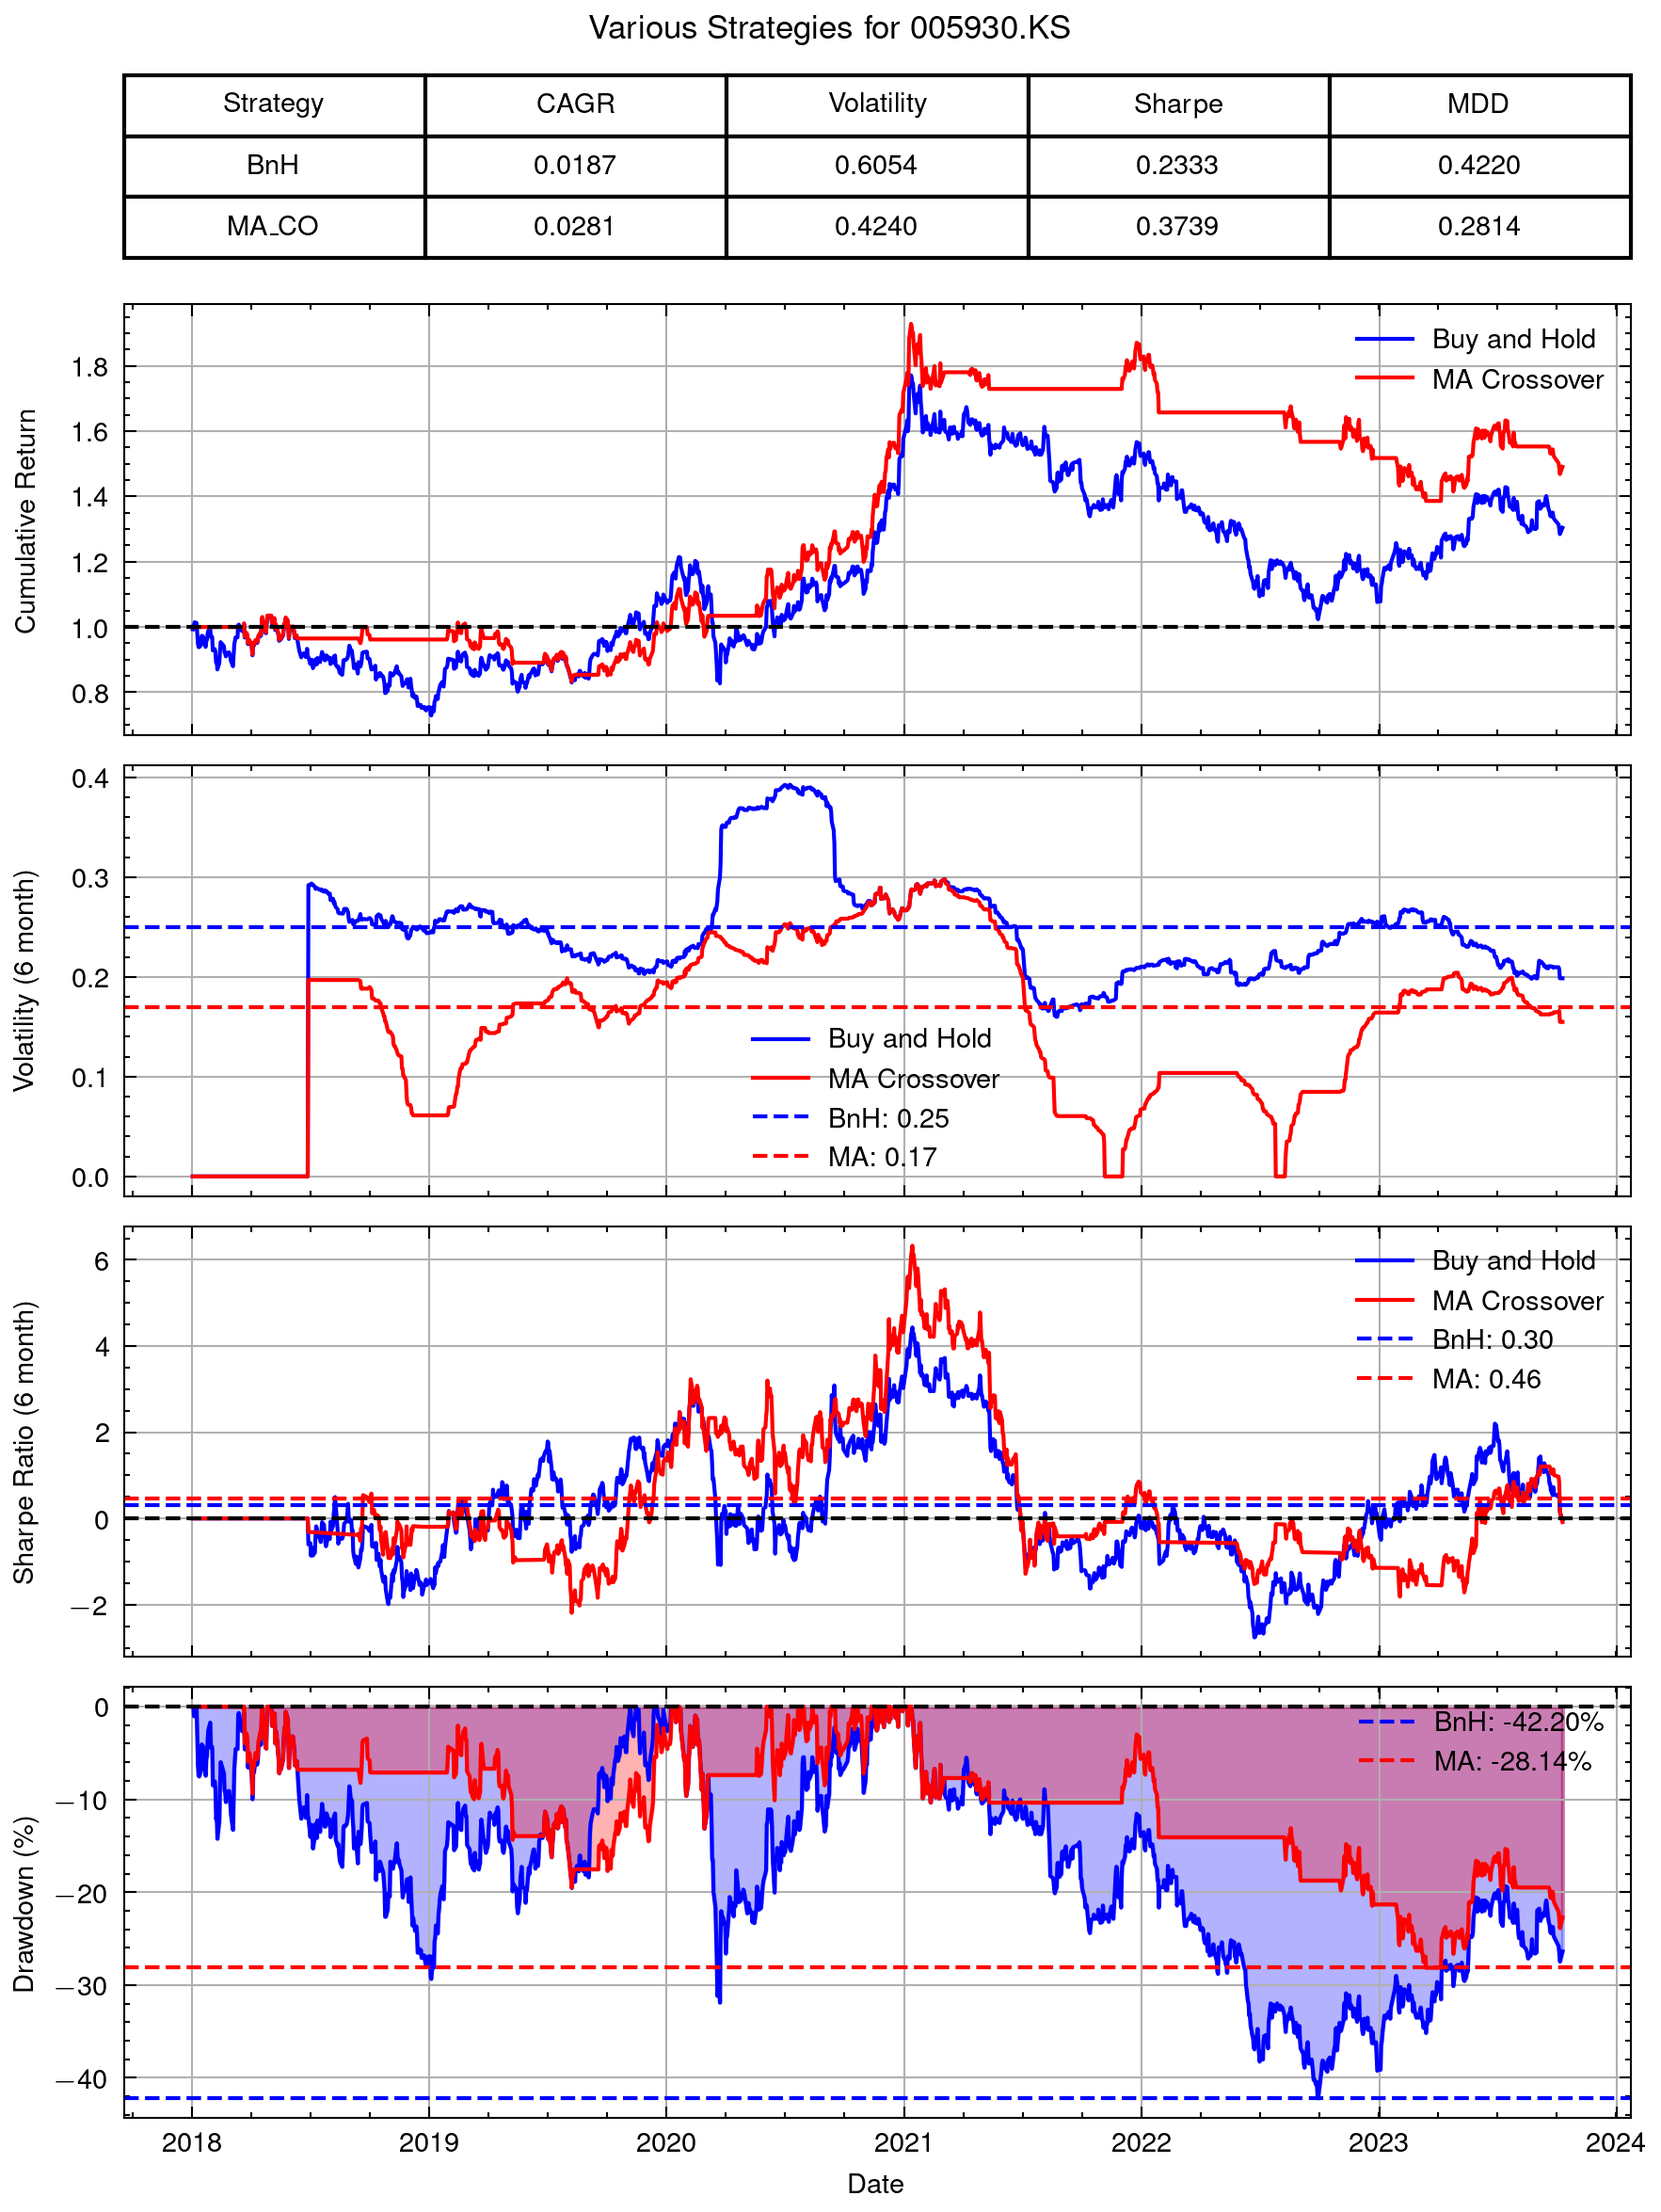
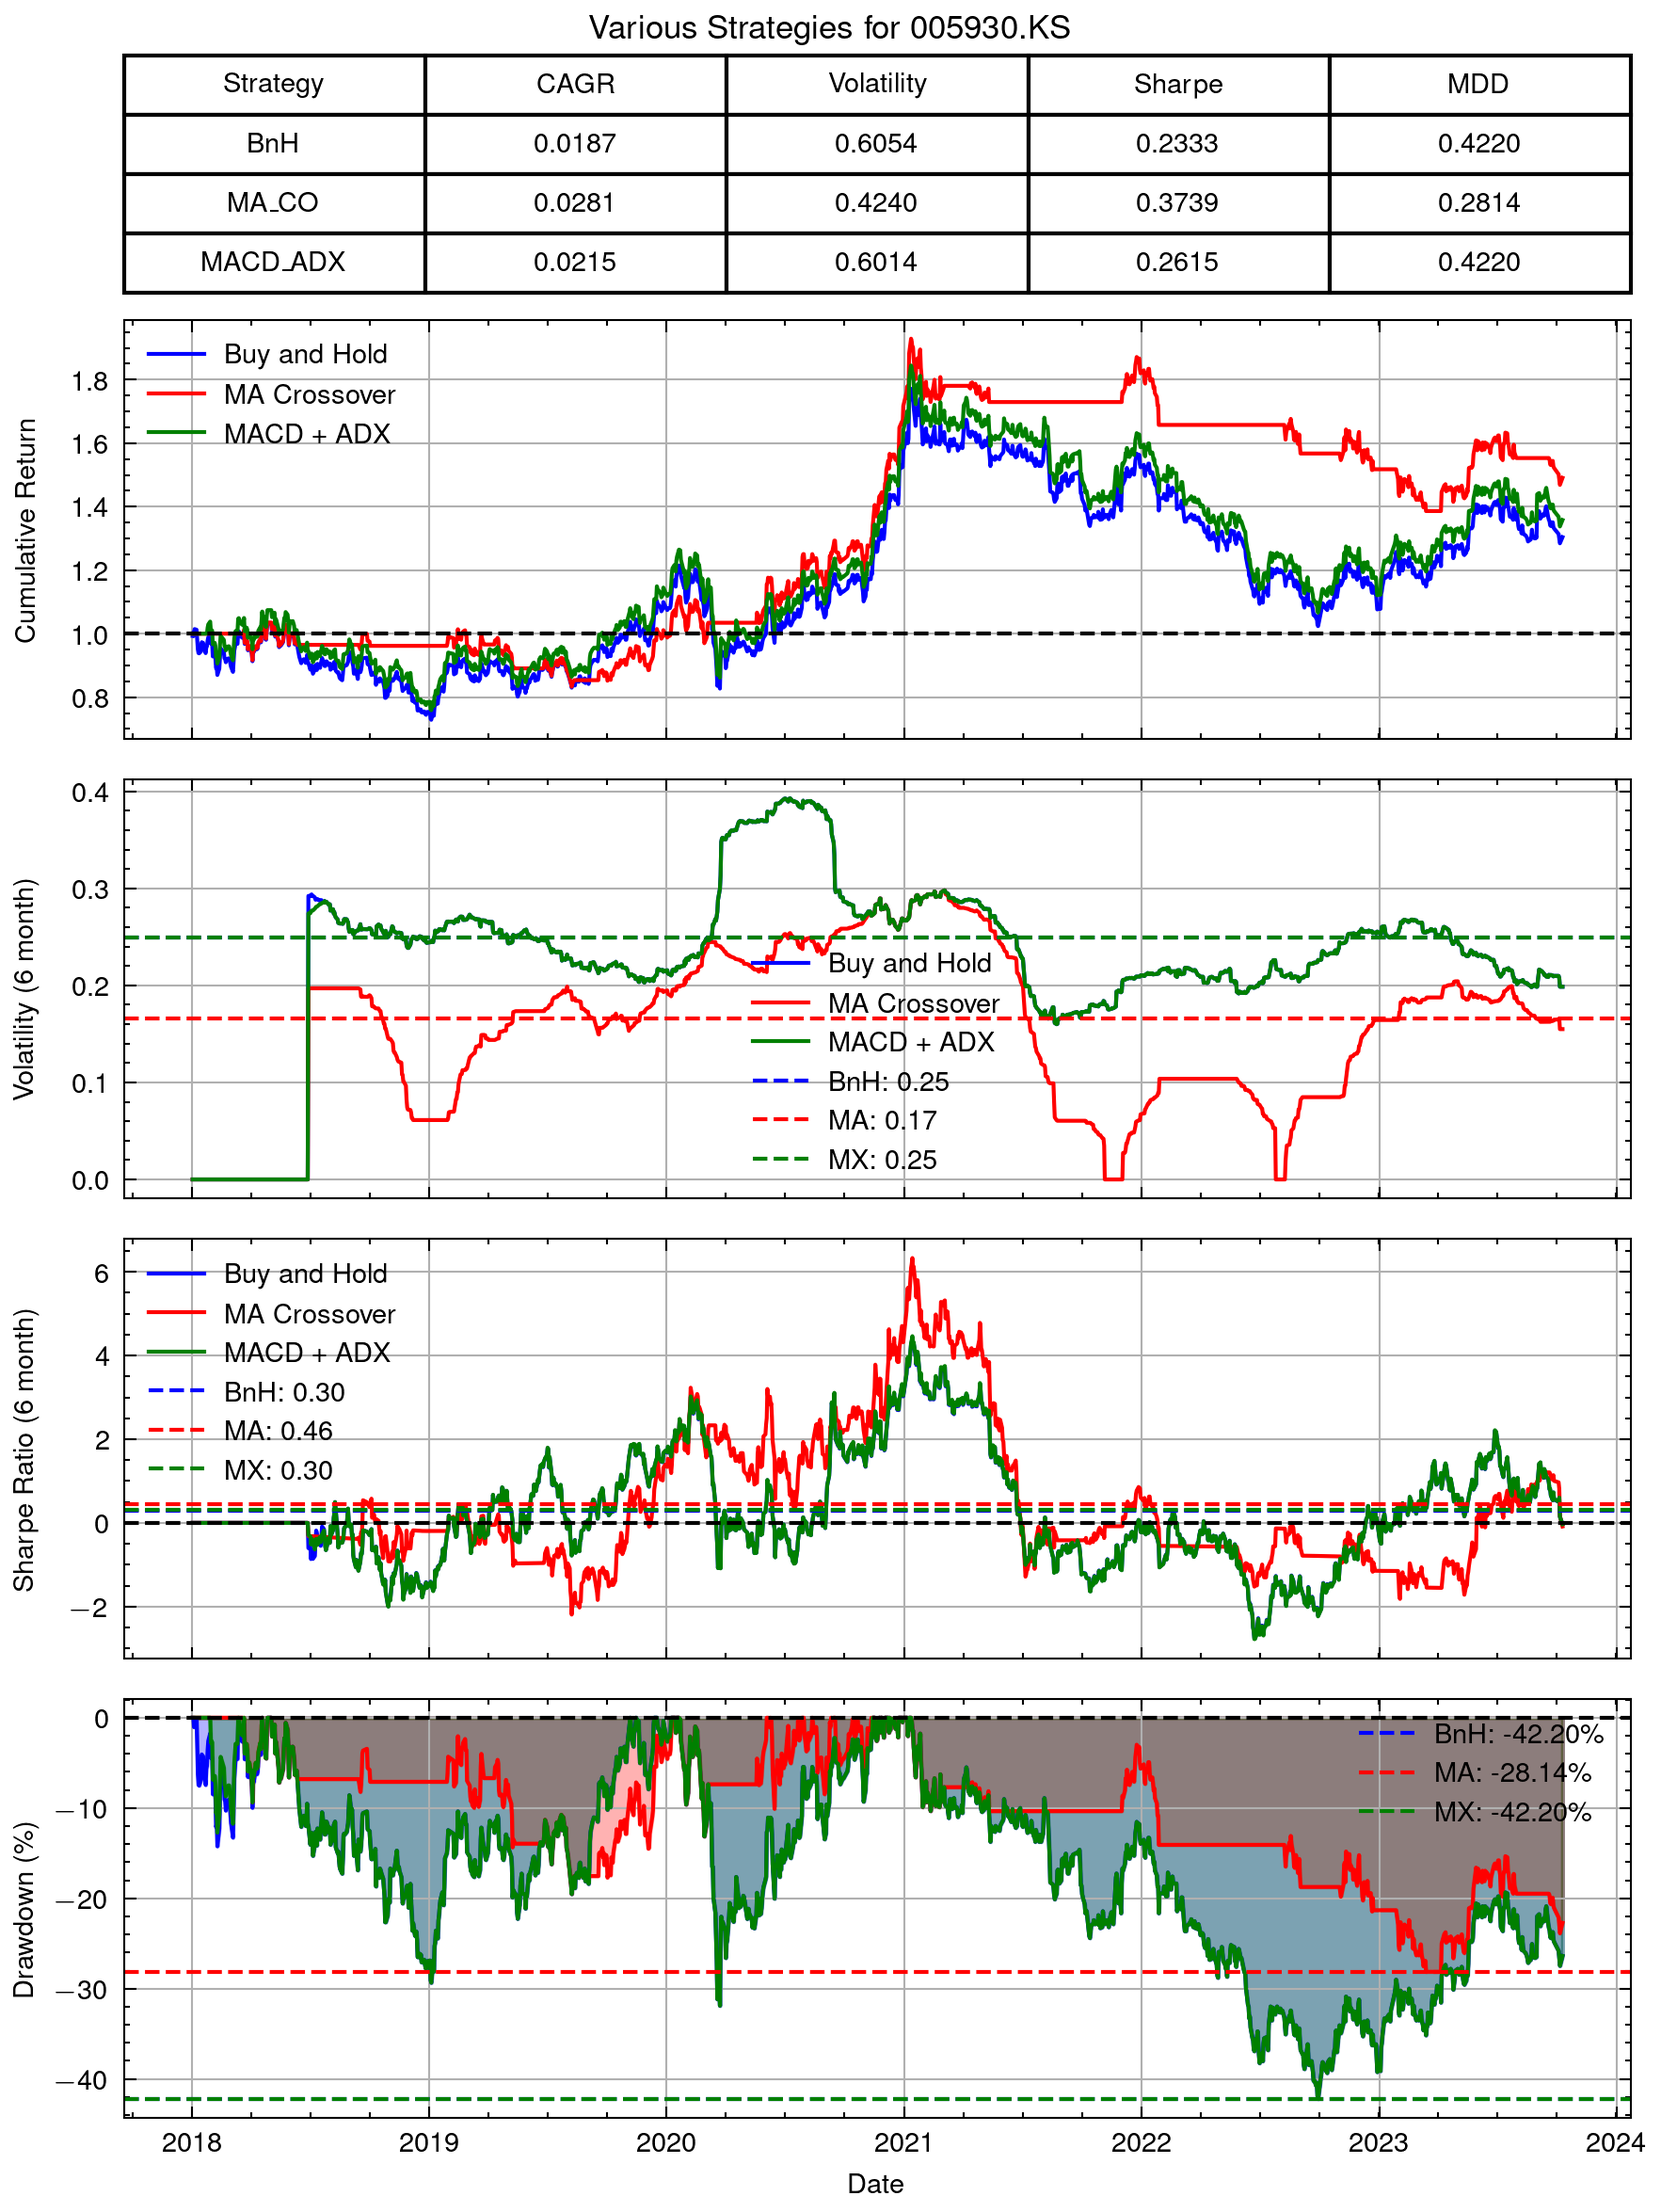
Add KO

diff --git a/script/strategy_plot.py b/script/strategy_plot.py
@@ -28,6 +28,11 @@ ma_co_vol = df['ma_co_vol']
 ma_co_sr = df['ma_co_sr']
 ma_co_dd = df['ma_co_dd']
 
+macd_adx_cr = df['macd_adx_cr']
+macd_adx_vol = df['macd_adx_vol']
+macd_adx_sr = df['macd_adx_sr']
+macd_adx_dd = df['macd_adx_dd']
+
 # Plot
 with plt.style.context(["science", "nature"]):
     fig, axs = plt.subplots(5, 1, figsize=(6, 8), sharex=True, gridspec_kw={'height_ratios': [1,2,2,2,2]})
@@ -42,31 +47,34 @@ with plt.style.context(["science", "nature"]):
 
     axs[1].plot(x, bnh_cr, color='b', label='Buy and Hold')
     axs[1].plot(x, ma_co_cr, color='r', label='MA Crossover')
+    axs[1].plot(x, macd_adx_cr, color='g', label='MACD + ADX')
     axs[1].axhline(y=1, color='k', linestyle='--')
     axs[1].set_ylabel('Cumulative Return')
     axs[1].grid(True)
     axs[1].legend()
 
-    bnh_vol_nonzero = bnh_vol[bnh_vol != 0]
-    vol_mean = np.mean(bnh_vol_nonzero)
-    ma_co_vol_nonzero = ma_co_vol[ma_co_vol != 0]
-    ma_co_vol_mean = np.mean(ma_co_vol_nonzero)
+    vol_mean = np.mean(bnh_vol[120:])
+    ma_co_vol_mean = np.mean(ma_co_vol[120:])
+    macd_adx_vol_mean = np.mean(macd_adx_vol[120:])
     axs[2].plot(x, bnh_vol, color='b', label='Buy and Hold')
     axs[2].plot(x, ma_co_vol, color='r', label='MA Crossover')
+    axs[2].plot(x, macd_adx_vol, color='g', label='MACD + ADX')
     axs[2].axhline(y=vol_mean, color='b', linestyle='--', label=f'BnH: {vol_mean:.2f}')
     axs[2].axhline(y=ma_co_vol_mean, color='r', linestyle='--', label=f'MA: {ma_co_vol_mean:.2f}')
+    axs[2].axhline(y=macd_adx_vol_mean, color='g', linestyle='--', label=f'MX: {macd_adx_vol_mean:.2f}')
     axs[2].set_ylabel('Volatility (6 month)')
     axs[2].grid(True)
     axs[2].legend()
 
-    bnh_sr_nonzero = bnh_sr[bnh_sr != 0]
-    sr_mean = np.mean(bnh_sr_nonzero)
-    ma_co_sr_nonzero = ma_co_sr[ma_co_sr != 0]
-    ma_co_sr_mean = np.mean(ma_co_sr_nonzero)
+    sr_mean = np.mean(bnh_sr[120:])
+    ma_co_sr_mean = np.mean(ma_co_sr[120:])
+    macd_adx_sr_mean = np.mean(macd_adx_sr[120:])
     axs[3].plot(x, bnh_sr, color='b', label='Buy and Hold')
     axs[3].plot(x, ma_co_sr, color='r', label='MA Crossover')
+    axs[3].plot(x, macd_adx_sr, color='g', label='MACD + ADX')
     axs[3].axhline(y=sr_mean, color='b', linestyle='--', label=f'BnH: {sr_mean:.2f}')
     axs[3].axhline(y=ma_co_sr_mean, color='r', linestyle='--', label=f'MA: {ma_co_sr_mean:.2f}')
+    axs[3].axhline(y=macd_adx_sr_mean, color='g', linestyle='--', label=f'MX: {macd_adx_sr_mean:.2f}')
     axs[3].axhline(y=0, color='k', linestyle='--')
     axs[3].set_ylabel('Sharpe Ratio (6 month)')
     axs[3].grid(True)
@@ -75,11 +83,14 @@ with plt.style.context(["science", "nature"]):
     # Underwater plot
     axs[4].plot(x, -bnh_dd * 100, color='b')
     axs[4].plot(x, -ma_co_dd * 100, color='r')
+    axs[4].plot(x, -macd_adx_dd * 100, color='g')
     axs[4].axhline(y=0, color='k', linestyle='--')
     axs[4].fill_between(x, -bnh_dd * 100, 0, color='b', alpha=0.3)
     axs[4].fill_between(x, -ma_co_dd * 100, 0, color='r', alpha=0.3)
+    axs[4].fill_between(x, -macd_adx_dd * 100, 0, color='g', alpha=0.3)
     axs[4].axhline(y=-np.max(bnh_dd) * 100, color='b', linestyle='--', label=f'BnH: {-np.max(bnh_dd) * 100:.2f}\%')
     axs[4].axhline(y=-np.max(ma_co_dd) * 100, color='r', linestyle='--', label=f'MA: {-np.max(ma_co_dd) * 100:.2f}\%')
+    axs[4].axhline(y=-np.max(macd_adx_dd) * 100, color='g', linestyle='--', label=f'MX: {-np.max(macd_adx_dd) * 100:.2f}\%')
     axs[4].set_xlabel('Date')
     axs[4].set_ylabel('Drawdown (\%)')
     axs[4].grid(True)

diff --git a/src/strategy.rs b/src/strategy.rs
@@ -92,6 +92,7 @@ pub trait Strategy {
     }
 }
 
+// Buy and Hold
 #[derive(Debug, Clone)]
 pub struct BuyAndHold {
     pub init: f64,
@@ -118,6 +119,7 @@ impl Strategy for BuyAndHold {
     }
 }
 
+// Moving Average Crossover
 #[derive(Debug, Clone)]
 pub struct MACrossover {
     pub ma1: usize,
@@ -148,3 +150,75 @@ impl Strategy for MACrossover {
         res
     }
 }
+
+// MACD + ADX
+#[allow(non_camel_case_types)]
+#[derive(Debug, Clone)]
+pub struct MACD_ADX {
+    pub thr: f64,
+    pub macd_osc: Vec<f64>,
+    pub adx: Vec<f64>,
+    pub close: Vec<f64>,
+}
+
+impl MACD_ADX {
+    pub fn new(thr: f64, high: &[f64], low: &[f64], close: &[f64]) -> Self {
+        let macd_ = macd(close, 12, 26);
+        let macd_signal = ema(&macd_, 9);
+        let (adx_, _, _) = adx_dmi(high, low, close, 14);
+
+        let macd_osc = macd_.sub_v(&macd_signal)
+            .fmap(|x| (x / macd_signal.max() * 7.5f64).tanh());
+
+        Self {
+            thr,
+            macd_osc,
+            adx: adx_,
+            close: close.to_vec(),
+        }
+    }
+}
+
+impl Strategy for MACD_ADX {
+    // Sell : macd_osc > thr -> macd_osc < 0 && adx > 25
+    // Buy : macd_osc < -thr -> macd_osc > 0 && adx > 25
+    fn daily_return(&self) -> Vec<f64> {
+        let mut res = vec![0f64; self.macd_osc.len()];
+        let mut buy_n_hold = false;
+        let mut sell = false;
+        let mut touch_up = false;
+        let mut touch_down = false;
+
+        for i in 1..self.macd_osc.len() {
+            if self.macd_osc[i] < -self.thr {
+                if !buy_n_hold && !touch_down {
+                    touch_down = true;
+                }
+            } else if self.macd_osc[i] > 0f64 {
+                if touch_down {
+                    buy_n_hold = true;
+                    touch_down = false;
+                }
+            } else if self.macd_osc[i] > self.thr {
+                if buy_n_hold && !touch_up {
+                    touch_up = true;
+                }
+            } else if self.macd_osc[i] < 0f64 {
+                if touch_up {
+                    sell = true;
+                    touch_up = false;
+                }
+            }
+
+            if buy_n_hold {
+                res[i] = (self.close[i] - self.close[i - 1]) / self.close[i - 1];
+            } else if sell {
+                res[i] = (self.close[i] - self.close[i - 1]) / self.close[i - 1];
+                buy_n_hold = false;
+                sell = false;
+            }
+        }
+        res
+    }
+}
+

diff --git a/src/bin/strategy_test.rs b/src/bin/strategy_test.rs
@@ -24,6 +24,10 @@ fn main() -> Result<(), Box<dyn std::error::Error>> {
     let mut df = hp.to_dataframe_simple();
     let open: Vec<f64> = df["open"].to_vec();
     let close: Vec<f64> = df["close"].to_vec();
+    let high: Vec<f64> = df["high"].to_vec();
+    let low: Vec<f64> = df["low"].to_vec();
+
+    df.print();
 
     // Buy and Hold
     let init = open[0];
@@ -48,16 +52,33 @@ fn main() -> Result<(), Box<dyn std::error::Error>> {
     df.push("ma_co_sr", Series::new(ma_co_sr));
     df.push("ma_co_dd", Series::new(ma_co_dd));
 
-    df.print();
+    // MACD + ADX
+    let macd_adx = MACD_ADX::new(0.5, &high, &low, &close);
+    let macd_adx_cr = macd_adx.cumulative_return();
+    let macd_adx_vol = macd_adx.roll_volatility(120);
+    let macd_adx_sr = macd_adx.roll_sharpe_ratio(&risk_free, 120);
+    let macd_adx_dd = macd_adx.drawdown();
+    df.push("macd_adx_cr", Series::new(macd_adx_cr));
+    df.push("macd_adx_vol", Series::new(macd_adx_vol));
+    df.push("macd_adx_sr", Series::new(macd_adx_sr));
+    df.push("macd_adx_dd", Series::new(macd_adx_dd));
 
     df.write_parquet(&format!("data/{}_strategy.parquet", symbol), CompressionOptions::Uncompressed)?;
 
     let mut dg = DataFrame::new(vec![]);
-    dg.push("Strategy", Series::new(vec!["BnH".to_string(), "MA_CO".to_string()]));
-    dg.push("CAGR", Series::new(vec![bnh.cagr(), ma_co.cagr()]));
-    dg.push("Volatility", Series::new(vec![bnh.volatility(), ma_co.volatility()]));
-    dg.push("Sharpe", Series::new(vec![bnh.sharpe_ratio(&risk_free), ma_co.sharpe_ratio(&risk_free)]));
-    dg.push("MDD", Series::new(vec![bnh.mdd(), ma_co.mdd()]));
+    dg.push("Strategy", 
+        Series::new(
+            vec![
+                "BnH".to_string(),
+                "MA_CO".to_string(),
+                "MACD_ADX".to_string()
+            ]
+        )
+    );
+    dg.push("CAGR", Series::new(vec![bnh.cagr(), ma_co.cagr(), macd_adx.cagr()]));
+    dg.push("Volatility", Series::new(vec![bnh.volatility(), ma_co.volatility(), macd_adx.volatility()]));
+    dg.push("Sharpe", Series::new(vec![bnh.sharpe_ratio(&risk_free), ma_co.sharpe_ratio(&risk_free), macd_adx.sharpe_ratio(&risk_free)]));
+    dg.push("MDD", Series::new(vec![bnh.mdd(), ma_co.mdd(), macd_adx.mdd()]));
 
     dg.print();
 
